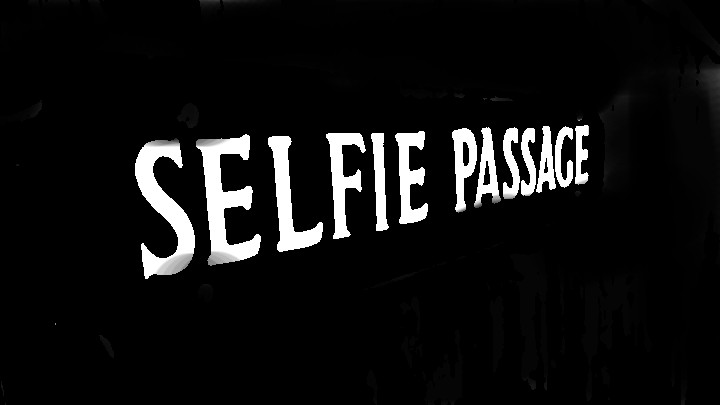
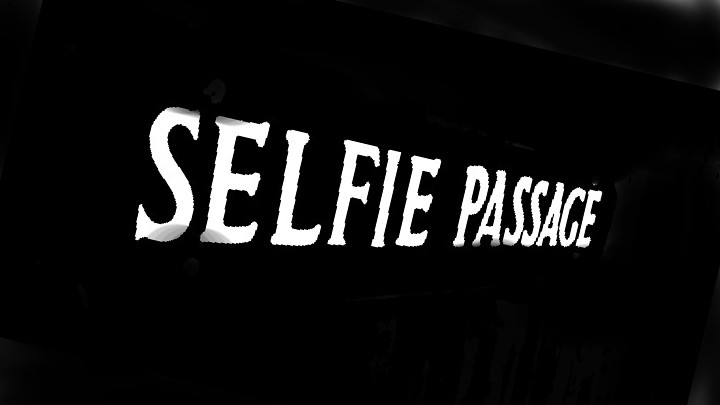
add preprocessing

diff --git a/process-image.cpp b/process-image.cpp
@@ -1,0 +1,50 @@
+#include <tesseract/baseapi.h>
+#include <leptonica/allheaders.h>
+#include <iostream>
+#include <string>
+
+void prepare_image(const std::string& file_name);
+
+int main(){
+
+	char *outText;
+	tesseract::TessBaseAPI *api = new tesseract::TessBaseAPI();
+	// initialize tesseract-ocr with english
+	if(api->Init(NULL, "eng")){
+		fprintf(stderr, "Could not initialize tesseract.\n");
+		exit(1);
+	}	
+
+	prepare_image("phototest5.jpg");
+	// use leptonica library to open input image
+	Pix *image = pixRead("phototest5.jpg");
+	api->SetImage(image);
+	// get result from ocr
+	outText = api->GetUTF8Text();
+	printf("OCR output:\n %s", outText);
+	// clean up
+	api->End();
+	delete[] outText;
+	pixDestroy(&image);
+	
+	return 0;
+}
+
+void prepare_image(const std::string& file_name){
+	
+	Pix *image = pixRead(file_name.c_str());
+	if(!image){
+		std::cerr << "error - file not found!\n";
+		return;
+	}
+	// grey scale convertion
+	image = pixConvertRGBToGray(image, 0.f, 0.f, 0.f);	
+	// perform otsu
+	int status = pixOtsuAdaptiveThreshold(image, 
+				2000, 2000, 0, 0, 0.f, NULL, &image);
+	// write the image to file
+	status = pixWriteImpliedFormat(file_name.c_str(), 
+										image, 0, 0);
+	pixDestroy(&image);
+}
+
